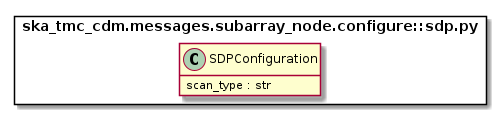
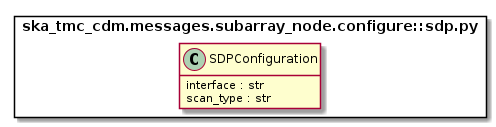
AT2-855 Update SDP in SubArrayNode.Configure

Changed region(s): [[0.0302, 0.1053, 0.998, 0.8684], [0.0302, 0.8947, 0.998, 0.9474]]

diff --git a/tests/unit/ska_tmc_cdm/messages/subarray_node/test_configure.py b/tests/unit/ska_tmc_cdm/messages/subarray_node/test_configure.py
@@ -36,7 +36,7 @@ def test_configure_request_eq():
 
     pointing_config = PointingConfiguration(Target(1, 1))
     dish_config = DishConfiguration(receiver_band=ReceiverBand.BAND_1)
-    sdp_config = SDPConfiguration("science_A")
+    sdp_config = SDPConfiguration(scan_type="science_A")
     channel_avg_map = list(zip(itertools.count(1, 744), [2] + 19 * [0]))
     csp_id = "sbi-mvp01-20200325-00001-science_A"
     fsp_config = FSPConfiguration(1, FSPFunctionMode.CORR, 1, 140, 0, channel_avg_map)
@@ -71,12 +71,12 @@ def test_configure_request_eq_for_low():
     request_1 = ConfigureRequest(
         interface='https://schema.skatelescope.org/ska-low-tmc-configure/1.0',
         mccs=mccs_config,
-        sdp=SDPConfiguration("science_A")
+        sdp=SDPConfiguration(scan_type="science_A")
     )
     request_2 = ConfigureRequest(
         interface='https://schema.skatelescope.org/ska-low-tmc-configure/1.0',
         mccs=mccs_config,
-        sdp=SDPConfiguration("science_A")
+        sdp=SDPConfiguration(scan_type="science_A")
     )
     assert request_1 == request_2
 
@@ -108,7 +108,7 @@ def test_configure_request_is_not_equal_to_other_objects():
     """
     pointing_config = PointingConfiguration(Target(1, 1))
     dish_config = DishConfiguration(receiver_band=ReceiverBand.BAND_1)
-    sdp_config = SDPConfiguration("science_A")
+    sdp_config = SDPConfiguration(scan_type="science_A")
     channel_avg_map = list(zip(itertools.count(1, 744), [2] + 19 * [0]))
     csp_id = "sbi-mvp01-20200325-00001-science_A"
     fsp_config = FSPConfiguration(1, FSPFunctionMode.CORR, 1, 140, 0, channel_avg_map)
@@ -157,7 +157,7 @@ def test_configure_request_is_not_equal_to_other_objects_for_low():
     request = ConfigureRequest(
         interface='https://schema.skatelescope.org/ska-low-tmc-configure/1.0',
         mccs=mccs_config,
-        sdp=SDPConfiguration("science_A")
+        sdp=SDPConfiguration(scan_type="science_A")
     )
     assert request != object
     assert request is not None

diff --git a/tests/unit/ska_tmc_cdm/schemas/subarray_node/configure/test_sdp.py b/tests/unit/ska_tmc_cdm/schemas/subarray_node/configure/test_sdp.py
@@ -2,34 +2,38 @@
 Unit tests for the ska_tmc_cdm.schemas.subarray_node.configure.sdp module.
 """
 
+import pytest
+
 from ska_tmc_cdm.messages.subarray_node.configure import SDPConfiguration
 from ska_tmc_cdm.schemas.subarray_node.configure.sdp import SDPConfigurationSchema
-from ska_tmc_cdm.utils import json_is_equal
+from ... import utils
 
-VALID_SDP_SCAN_TYPE = '{"scan_type": "science_A"}'
+VALID_JSON = """
+{
+    "interface": "https://schema.skao.int/ska-sdp-configure/1.0",
+    "scan_type": "science_A" 
+}
+"""
+
+VALID_OBJECT = SDPConfiguration(scan_type="science_A")
 
 
-def test_marshall_sdp_scan_type():
+@pytest.mark.parametrize(
+    "schema_cls,instance,modifier_fn,valid_json,invalid_json",
+    [
+        (SDPConfigurationSchema,
+         VALID_OBJECT,
+         None,
+         VALID_JSON,
+         None),
+    ],
+)
+def test_releaseresources_serialisation_and_validation(
+    schema_cls, instance, modifier_fn, valid_json, invalid_json
+):
     """
-    Verify that JSON can be marshalled to JSON correctly
+    Verifies that the schema marshals, unmarshals, and validates correctly.
     """
-    scan_type = "science_A"
-    sdp_configure = SDPConfiguration(scan_type)
-    schema = SDPConfigurationSchema()
-    result = schema.dumps(sdp_configure)
-
-    assert json_is_equal(result, VALID_SDP_SCAN_TYPE)
-
-
-def test_unmarshall_sdp_scan_type():
-    """
-    Verify that JSON can be unmarshalled to JSON correctly
-    """
-    schema = SDPConfigurationSchema()
-    result = schema.loads(VALID_SDP_SCAN_TYPE)
-
-    scan_type = "science_A"
-    expected = SDPConfiguration(scan_type)
-
-    assert isinstance(result.scan_type, str)
-    assert expected == result
+    utils.test_schema_serialisation_and_validation(
+        schema_cls, instance, modifier_fn, valid_json, invalid_json
+    )

diff --git a/tests/unit/ska_tmc_cdm/schemas/subarray_node/test_configure.py b/tests/unit/ska_tmc_cdm/schemas/subarray_node/test_configure.py
@@ -82,6 +82,7 @@ VALID_MID_CONFIGURE_JSON = """
     }
   },
   "sdp": {
+    "interface": "https://schema.skao.int/ska-sdp-configure/1.0",
     "scan_type": "science_A"
   },
   "tmc": {
@@ -103,7 +104,10 @@ VALID_MID_CONFIGURE_OBJECT = ConfigureRequest(
     dish=DishConfiguration(
         receiver_band=ReceiverBand.BAND_1
     ),
-    sdp=SDPConfiguration("science_A"),
+    sdp=SDPConfiguration(
+        interface="https://schema.skao.int/ska-sdp-configure/1.0",
+        scan_type="science_A"
+    ),
     csp=CSPConfiguration(
         interface="https://schema.skatelescope.org/ska-csp-configure/1.0",
         subarray_config=SubarrayConfiguration('science period 23'),
@@ -184,6 +188,7 @@ VALID_MID_CONFIGURE_PRE_ADR18_JSON = """
     ]
   },
   "sdp": {
+    "interface": "https://schema.skao.int/ska-sdp-configure/1.0",
     "scan_type": "science_A"
   },
   "tmc": {
@@ -249,6 +254,7 @@ VALID_MID_NO_CSP_CHANAVGMAP_JSON = """
     ]
   },
   "sdp": {
+    "interface": "https://schema.skao.int/ska-sdp-configure/1.0",
     "scan_type": "science_A"
   },
   "tmc": {
@@ -270,7 +276,9 @@ VALID_MID_NO_CSP_CHANAVGMAP_OBJECT = ConfigureRequest(
     dish=DishConfiguration(
         receiver_band=ReceiverBand.BAND_1
     ),
-    sdp=SDPConfiguration("science_A"),
+    sdp=SDPConfiguration(
+        scan_type="science_A"
+    ),
     csp=CSPConfiguration(
         csp_id="sbi-mvp01-20200325-00001-science_A",
         frequency_band=ReceiverBand.BAND_1,

diff --git a/tests/unit/ska_tmc_cdm/messages/subarray_node/configure/test_sdp.py b/tests/unit/ska_tmc_cdm/messages/subarray_node/configure/test_sdp.py
@@ -8,13 +8,13 @@ def test_sdp_configuration_equals():
     """
     Verify that SDP configuration objects are equal when they have the same value
     """
-    sdp_config_a = SDPConfiguration('calibration_A')
-    sdp_config_b = SDPConfiguration('calibration_A')
+    sdp_config_a = SDPConfiguration(scan_type='calibration_A')
+    sdp_config_b = SDPConfiguration(scan_type='calibration_A')
 
     assert sdp_config_a == sdp_config_b
 
-    assert sdp_config_a != SDPConfiguration('science_B')
-    assert sdp_config_b != SDPConfiguration('science_B')
+    assert sdp_config_a != SDPConfiguration(scan_type='science_B')
+    assert sdp_config_b != SDPConfiguration(scan_type='science_B')
 
 
 def test_sdp_config_not_equal_to_other_objects():
@@ -22,5 +22,5 @@ def test_sdp_config_not_equal_to_other_objects():
     Verify that SDP configuration objects are not considered equal to objects of
     other types.
     """
-    sdp_config = SDPConfiguration('calibration_A')
+    sdp_config = SDPConfiguration(scan_type='calibration_A')
     assert sdp_config != 1

diff --git a/src/ska_tmc_cdm/messages/subarray_node/configure/sdp.py b/src/ska_tmc_cdm/messages/subarray_node/configure/sdp.py
@@ -4,17 +4,29 @@ aspects of SDP configuration that may be specified in a SubArrayNode.configure
 command.
 """
 
-__all__ = ['SDPConfiguration']
+__all__ = ["SDPConfiguration"]
+
+from typing import Optional
+
+SCHEMA = "https://schema.skao.int/ska-sdp-configure/1.0"
 
 
 class SDPConfiguration:
     """
-    Class to hold SDP configuration
+    Message class to hold SDP configuration aspect of a
+    TMC SubArrayNode.Configure call.
     """
-    def __init__(self, scan_type: str):
+
+    def __init__(
+            self,
+            *,  # force kwonly args
+            interface: Optional[str] = SCHEMA,
+            scan_type: str
+    ):
+        self.interface = interface
         self.scan_type = scan_type
 
     def __eq__(self, other):
         if not isinstance(other, SDPConfiguration):
             return False
-        return self.scan_type == other.scan_type
+        return self.interface == other.interface and self.scan_type == other.scan_type

diff --git a/src/ska_tmc_cdm/schemas/subarray_node/configure/sdp.py b/src/ska_tmc_cdm/schemas/subarray_node/configure/sdp.py
@@ -1,6 +1,6 @@
 """
-This module defines Marshmallow schemas that map CDM the message classes for
-SDP configuration to and from a JSON representation.
+This module defines Marshmallow schemas that map the SDPConfiguration message
+classes to/from JSON.
 """
 
 from marshmallow import Schema, fields, post_load
@@ -17,7 +17,8 @@ class SDPConfigurationSchema(Schema):  # pylint: disable=too-few-public-methods
     Marshmallow class for the SDPConfiguration class
     """
 
-    scan_type = fields.String(data_key="scan_type")
+    interface = fields.String()
+    scan_type = fields.String()
 
     @post_load
     def create_sdp_configuration(self, data, **_):  # pylint: disable=no-self-use

diff --git a/docs/src/developer/subarraynode/subarraynode.rst b/docs/src/developer/subarraynode/subarraynode.rst
@@ -387,6 +387,7 @@ Example configuration JSON for MID
       }
     },
     "sdp": {
+      "interface": "https://schema.skao.int/ska-sdp-configure/1.0",
       "scan_type": "science_A"
     },
     "tmc": {
